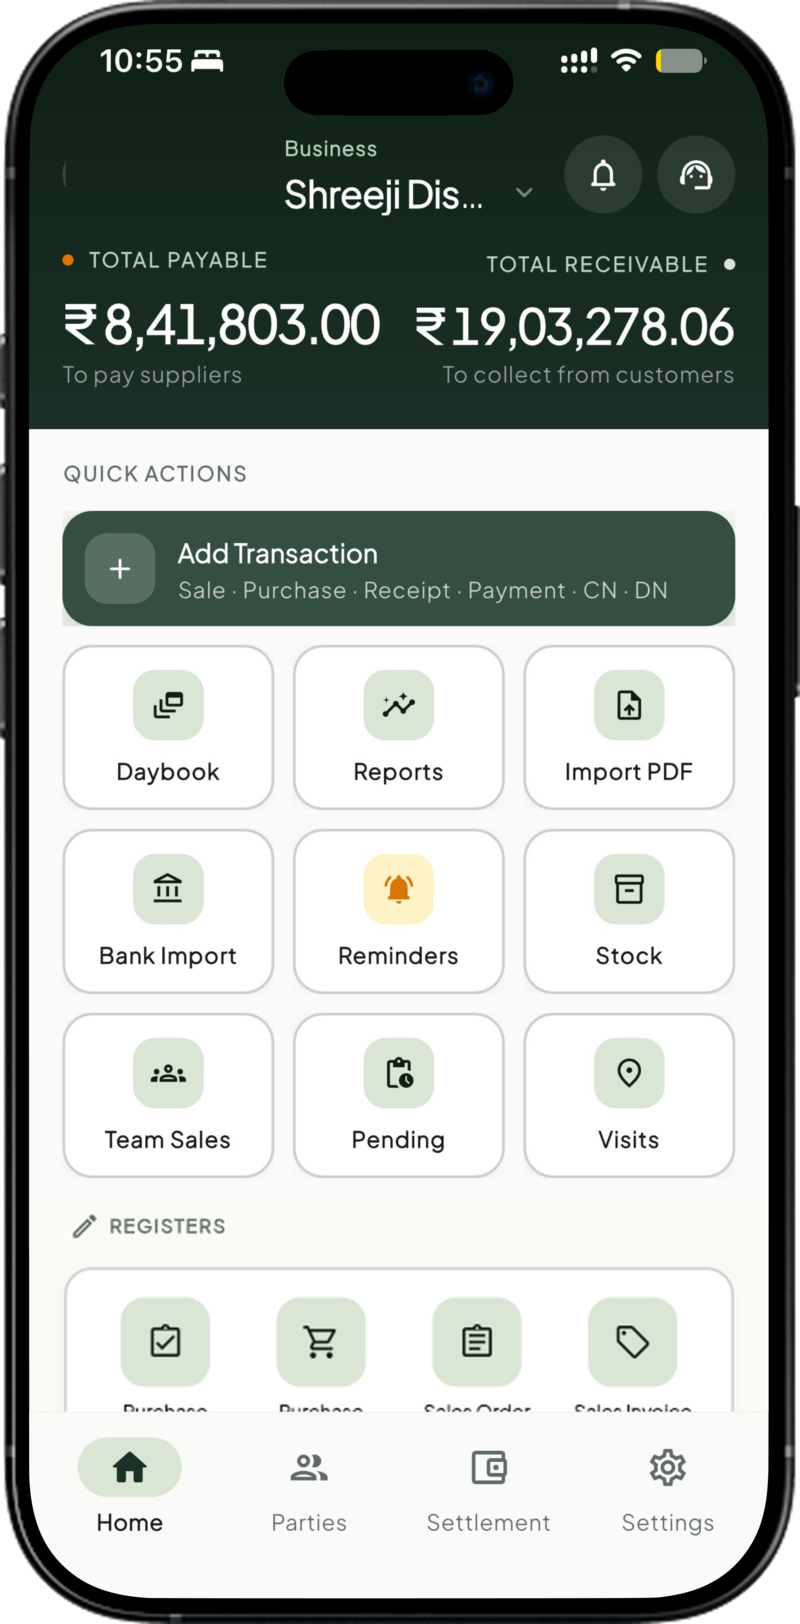
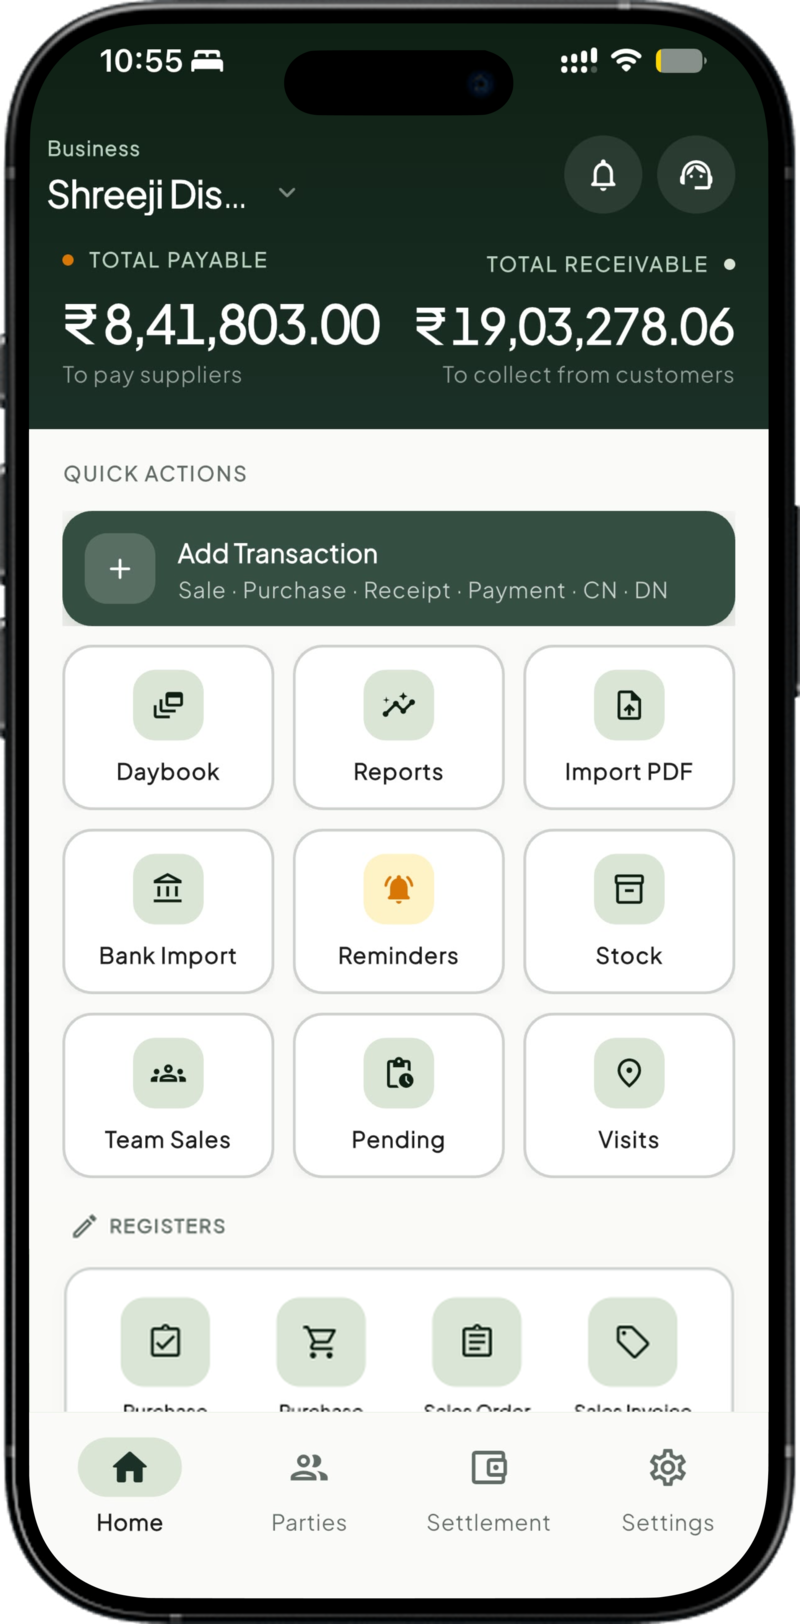
feat(home): business name left-aligned in the hero mockup; chips swap sides
The mockup's header now reads like the live app (name at left where the
demo pill sat), and the floating chips move to top-right / bottom-left
so neither covers it.

Claude-Session: https://claude.ai/code/session_01YQmkS6mXpPG4KNwSoZbeB6

Changed region(s): [[0.0625, 0.0924, 0.2812, 0.1539], [0.3438, 0.0924, 0.5625, 0.1539]]

diff --git a/src/home.css b/src/home.css
@@ -179,8 +179,10 @@
 }
 
 .home-v3 .hv3-hero-chip svg { color: var(--color-primary-light); flex-shrink: 0; }
-.home-v3 .hv3-hero-chip--1 { top: 12%; left: 4%; }
-.home-v3 .hv3-hero-chip--2 { bottom: 14%; right: 3%; }
+/* Chips hang off the right-top and left-bottom so neither covers the
+   business name at the mockup's top-left (framed hero, 2026-08-04). */
+.home-v3 .hv3-hero-chip--1 { top: 12%; right: 3%; }
+.home-v3 .hv3-hero-chip--2 { bottom: 14%; left: 4%; }
 
 /* Hero entrance stagger (motion reason 1) */
 html.js .home-v3 .hv3-hero-copy > *,
@@ -796,8 +798,8 @@ html.js .home-v3 .hv3-tour--auto .hv3-tour-step.is-active .hv3-tour-progress::af
   .home-v3 .hv3-hero-visual { padding: 34px 14px; border-radius: 28px; }
   .home-v3 .hv3-hero-phone { width: 216px; }
   .home-v3 .hv3-hero-chip { font-size: 12px; padding: 8px 11px; }
-  .home-v3 .hv3-hero-chip--1 { top: 6%; left: 2%; }
-  .home-v3 .hv3-hero-chip--2 { bottom: 8%; right: 2%; }
+  .home-v3 .hv3-hero-chip--1 { top: 6%; right: 2%; }
+  .home-v3 .hv3-hero-chip--2 { bottom: 8%; left: 2%; }
 
   .home-v3 .hv3-story,
   .home-v3 .hv3-ai,
